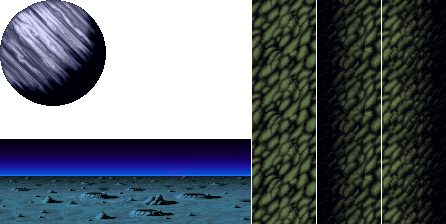
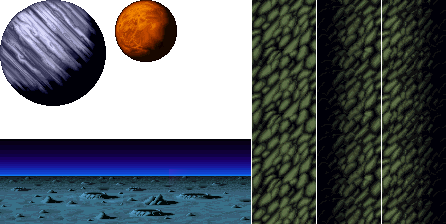
Planet 2 Added Background

Changed region(s): [[0.2332, 0.0, 0.4081, 0.2812]]

diff --git a/SDL_AndroDunos/ModuleBackground.cpp b/SDL_AndroDunos/ModuleBackground.cpp
@@ -55,10 +55,14 @@ ModuleBackground::ModuleBackground()
 	star7.w = 17;
 	star7.h = 6;
 	//planets
-	planet.x = 0;
-	planet.y = 0;
-	planet.w = 106;
-	planet.h = 106;
+	planet1.x = 0;
+	planet1.y = 0;
+	planet1.w = 106;
+	planet1.h = 106;
+	planet2.x = 115;
+	planet2.y = 0;
+	planet2.w = 62;
+	planet2.h = 62;
 }
 
 ModuleBackground::~ModuleBackground()
@@ -93,7 +97,8 @@ update_status ModuleBackground::Update()
 			App->render->Blit(stars_tx, (SCREEN_WIDTH*i) + 50, 87, &star6, 1.0f);
 
 			App->render->Blit(ground_tx, 0, -94, &ground);
-			App->render->Blit(back_tx, 650, 20, &planet, 0.2f);
+			App->render->Blit(back_tx, 650, 17, &planet1, 0.2f);
+			
 		}
 			App->render->camera.x -= 3;
 			if (App->render->camera.x <= -2929 * SCREEN_SIZE)
@@ -188,6 +193,7 @@ update_status ModuleBackground::Update()
 			App->render->Blit(stars_tx, (SCREEN_WIDTH*i) + 50, 41, &star7, 0.5f);
 			App->render->Blit(stars_tx, (SCREEN_WIDTH*i) + 50, 87, &star6, 1.0f);
 		}
+		App->render->Blit(back_tx, 1790, 17, &planet2, 0.2f);
 		App->render->camera.x -= 3;
 		break;
 	}

diff --git a/SDL_AndroDunos/ModuleRender.cpp b/SDL_AndroDunos/ModuleRender.cpp
@@ -52,15 +52,15 @@ update_status ModuleRender::Update()
 	int speed = 3;
 
 	if (App->input->keyboard[SDL_SCANCODE_UP] == 1)
-		camera.y += speed*4;
+		camera.y += speed*10;
 
 	if (App->input->keyboard[SDL_SCANCODE_DOWN] == 1)
-		camera.y -= speed*4;
+		camera.y -= speed*10;
 
 	if (App->input->keyboard[SDL_SCANCODE_RIGHT] == 1)
-		camera.x -= speed*4;
+		camera.x -= speed*10;
 	if (App->input->keyboard[SDL_SCANCODE_LEFT] == 1)
-		camera.x += speed*4;
+		camera.x += speed*10;
 	return update_status::UPDATE_CONTINUE;
 }
 

diff --git a/SDL_AndroDunos/ModuleBackground.h b/SDL_AndroDunos/ModuleBackground.h
@@ -31,7 +31,9 @@ public:
 	SDL_Rect star5;
 	SDL_Rect star6;
 	SDL_Rect star7;
-	SDL_Rect planet;
+	SDL_Rect planet1;
+	SDL_Rect planet2;
+
 	int part_stage = 0;
 };
 
